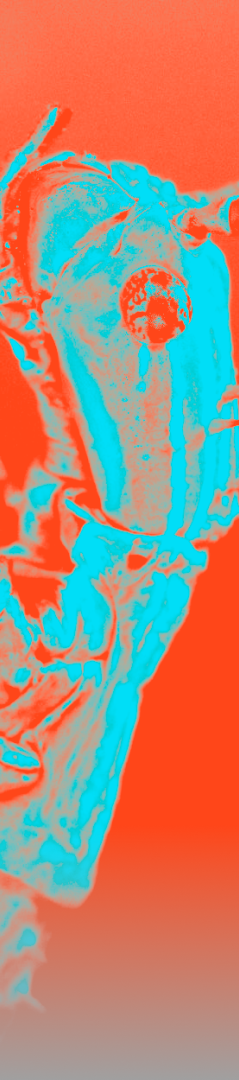
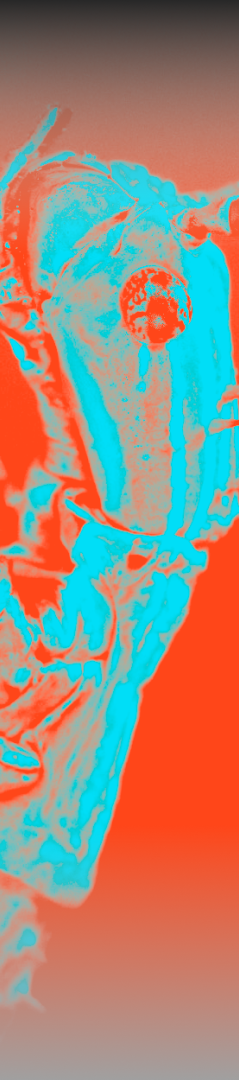
Добавлен подвал удалены неиспользуемые изображения

Changed region(s): [[0.0, 0.0, 1.0, 0.2139]]

diff --git a/footer.css b/footer.css
@@ -1,6 +1,38 @@
 footer {
     background-color: #262626;
-    color: #67CFDF;
+    height: 150px;
+
+    display: flex;
+    flex-direction: row;
+    flex-wrap: nowrap;
+
+    justify-content: space-between;
+    align-items: center;
+}
+
+footer > div {
+    margin: 0 150px;
+}
+
+/* ЛОГО С ПОДПИСЬЮ */
+.logo_footer {
+    display: inline-block;
+
+    height: 60px;
+    aspect-ratio: 383/87;
+
+    background-image: url(picture/logo_full.png);
+    background-size: contain;
+    background-repeat: no-repeat;
+}
+
+.logo_footer:hover {
+    background-image: url(picture/logo_full_color.png);
+}
+
+/* УЧЕБНОЕ ЗАВЕДЕНИЕ И СОЦИАЛЬНЫЕ СЕТИ */
+.vhutein_logo_and_social_icons_footer {
+    height: 30px;
 
     display: flex;
     flex-direction: row;
@@ -10,32 +42,57 @@ footer {
     align-items: center;
 }
 
-/* АВТОР И УЧЕБНОЕ ЗАВЕДЕНИЕ */
-.author {
-    font-size: 10pt;
-    margin-left: 25px;
+.vhutein_logo_and_social_icons_footer > div {
+    margin: 0 25px;
 }
 
-.establishment {
-    font-size: 28pt;
+/* УЧЕБНОЕ ЗАВЕДЕНИЕ */
+.vhutein_logo_footer {
+    display: inline-block;
+
+    height: 30px;
+    aspect-ratio: 827/164;
+    
+    background-image: url(picture/vhutein_logo_gray.png);
+    background-size: contain;
+    background-repeat: no-repeat;
 }
 
-/* ПАЛОЧНИК */
-.cool_rotated_stickyman_on_establishment {
-    position: relative;
+.vhutein_logo_footer:hover {
+    background-image: url(picture/vhutein_logo_color.png);
 }
 
-.cool_rotated_stickyman {
-    position: absolute;
-    top: 20%;
-    left: 20%;
+/* СОЦИАЛЬНЫЕ СЕТИ */
+.social_icons_foooter {
+     display: inline-block;
 
-    width: 60%;
-
-    transform-origin: center;
-    transition: transform 1s;
+    height: 30px;
+    aspect-ratio: 1;
+    
+    background-size: contain;
+    background-repeat: no-repeat;
 }
 
-.cool_rotated_stickyman:hover {
-	transform: rotate(1turn);
+.telegram_icon_footer {
+    background-image: url(picture/telegram_icon.png);
+}
+
+.telegram_icon_footer:hover {
+    background-image: url(picture/telegram_icon_color.png);
+}
+
+.youtube_icon_footer {
+    background-image: url(picture/youtube_icon.png);
+}
+
+.youtube_icon_footer:hover {
+    background-image: url(picture/youtube_icon_color.png);
+}
+
+.vk_icon_footer {
+    background-image: url(picture/vk_icon.png);
+}
+
+.vk_icon_footer:hover {
+    background-image: url(picture/vk_icon_color.png);
 }

diff --git a/structure.js b/structure.js
@@ -113,7 +113,7 @@ function is_state_4_third_screen() {
 }
 
 function set_state_1_third_screen() {
-    $('.third_screen').removeClass('white_screen protection_screen_2 protection_screen_3 protection_screen_4')
+    $('.third_screen').removeClass('white_screen')
     $('.third_screen').addClass('light_blue_screen')
     $('.little_white_circle').removeClass('little_white_circle_hide')
     $('.protection_info_1').addClass('protection_info_hide')
@@ -124,8 +124,8 @@ function set_state_1_third_screen() {
 }
 
 function set_state_2_third_screen() {
-    $('.third_screen').removeClass('light_blue_screen protection_screen_3 protection_screen_4')
-    $('.third_screen').addClass('white_screen protection_screen_2')
+    $('.third_screen').removeClass('light_blue_screen')
+    $('.third_screen').addClass('white_screen')
     $('.little_white_circle').addClass('little_white_circle_hide')
     $('.protection_info_1').removeClass('protection_info_hide')
     $('.protection_container_background').addClass('protection_container_background_2')
@@ -133,8 +133,8 @@ function set_state_2_third_screen() {
 }
 
 function set_state_3_third_screen() {
-    $('.third_screen').removeClass('light_blue_screen protection_screen_2 protection_screen_4')
-    $('.third_screen').addClass('white_screen protection_screen_3')
+    $('.third_screen').removeClass('light_blue_screen')
+    $('.third_screen').addClass('white_screen')
     $('.little_white_circle').addClass('little_white_circle_hide')
     $('.protection_info_2').removeClass('protection_info_hide')
     $('.protection_container_background').addClass('protection_container_background_3')
@@ -142,8 +142,8 @@ function set_state_3_third_screen() {
 }
 
 function set_state_4_third_screen() {
-    $('.third_screen').removeClass('light_blue_screen protection_screen_2 protection_screen_3')
-    $('.third_screen').addClass('white_screen protection_screen_4')
+    $('.third_screen').removeClass('light_blue_screen')
+    $('.third_screen').addClass('white_screen')
     $('.little_white_circle').addClass('little_white_circle_hide')
     $('.protection_info_3').removeClass('protection_info_hide')
     $('.protection_container_background').addClass('protection_container_background_4')

diff --git a/structure.html b/structure.html
@@ -111,11 +111,19 @@
 
     <!-- ПОДВАЛ -->
     <footer>
-        <div class="cool_rotated_stickyman_on_establishment">
-            <img src="picture/Sm_littlebig_gm_color.png" class="cool_rotated_stickyman">
-            <p class="establishment">ВХУТЕИН</p>
+        <div>
+            <a href="/" class="logo_footer"></a>
         </div>
-        <p class="author">Томина<br>Елизавета</p>
+        <div class="vhutein_logo_and_social_icons_footer">
+            <div>
+                <a href="https://www.vhutein.ru/" target="_blank" class="vhutein_logo_footer"></a>
+            </div>
+            <div>
+                <a href="https://t.me/vhutein" target="_blank" class="social_icons_foooter telegram_icon_footer"></a>
+                <a href="https://www.youtube.com/@vhutein" target="_blank" class="social_icons_foooter youtube_icon_footer"></a>
+                <a href="https://vk.com/vhutein" target="_blank" class="social_icons_foooter vk_icon_footer"></a>
+            </div>
+        </div>
     </footer>
     
     <!-- СТРЕЛОЧКА ВВЕРХ -->

diff --git a/metamorphosis.html b/metamorphosis.html
@@ -96,11 +96,19 @@
 
     <!-- ПОДВАЛ -->
     <footer>
-        <div class="cool_rotated_stickyman_on_establishment">
-            <img src="picture/Sm_littlebig_gm_color.png" class="cool_rotated_stickyman">
-            <p class="establishment">ВХУТЕИН</p>
+        <div>
+            <a href="/" class="logo_footer"></a>
         </div>
-        <p class="author">Томина<br>Елизавета</p>
+        <div class="vhutein_logo_and_social_icons_footer">
+            <div>
+                <a href="https://www.vhutein.ru/" target="_blank" class="vhutein_logo_footer"></a>
+            </div>
+            <div>
+                <a href="https://t.me/vhutein" target="_blank" class="social_icons_foooter telegram_icon_footer"></a>
+                <a href="https://www.youtube.com/@vhutein" target="_blank" class="social_icons_foooter youtube_icon_footer"></a>
+                <a href="https://vk.com/vhutein" target="_blank" class="social_icons_foooter vk_icon_footer"></a>
+            </div>
+        </div>
     </footer>
     
     <!-- СТРЕЛОЧКА ВВЕРХ -->

diff --git a/index.html b/index.html
@@ -132,11 +132,19 @@
 
     <!-- ПОДВАЛ -->
     <footer>
-        <div class="cool_rotated_stickyman_on_establishment">
-            <img src="picture/Sm_littlebig_gm_color.png" class="cool_rotated_stickyman">
-            <p class="establishment">ВХУТЕИН</p>
+        <div>
+            <a href="/" class="logo_footer"></a>
         </div>
-        <p class="author">Томина<br>Елизавета</p>
+        <div class="vhutein_logo_and_social_icons_footer">
+            <div>
+                <a href="https://www.vhutein.ru/" target="_blank" class="vhutein_logo_footer"></a>
+            </div>
+            <div>
+                <a href="https://t.me/vhutein" target="_blank" class="social_icons_foooter telegram_icon_footer"></a>
+                <a href="https://www.youtube.com/@vhutein" target="_blank" class="social_icons_foooter youtube_icon_footer"></a>
+                <a href="https://vk.com/vhutein" target="_blank" class="social_icons_foooter vk_icon_footer"></a>
+            </div>
+        </div>
     </footer>
 
     <!-- СТРЕЛОЧКА ВВЕРХ -->

diff --git a/structure.css b/structure.css
@@ -207,36 +207,6 @@
     transition: all 1s ease;
 }
 
-.protection_screen_2 {
-    background-image: url('picture/Ellipse_structure_1_screen.png');
-    background-repeat: no-repeat;
-    background-size: 60%;
-    background-position-x: calc(50% - 200px);
-    background-position-y: calc(50% - 70px);
-
-    transition: all 2s ease;
-}
-
-.protection_screen_3 {
-    background-image: url('picture/Ellipse_structure_2_screen.png');
-    background-repeat: no-repeat;
-    background-size: 60%;
-    background-position-x: calc(50% - 100px);
-    background-position-y: calc(50% + 25px);
-
-    transition: all 2s ease;
-}
-
-.protection_screen_4 {
-    background-image: url('picture/Ellipse_structure_3_screen.png');
-    background-repeat: no-repeat;
-    background-size: 60%;
-    background-position-x: calc(50% - 150px);
-    background-position-y: calc(50% - 113px);
-
-    transition: all 2s ease;
-}
-
 .protection_container_background {
     height: 100%;
     width: 100%;

diff --git a/index.css b/index.css
@@ -23,11 +23,6 @@
 
 /* ВТОРОЙ ЭКРАН */
 .second_screen {
-    background-image: url('picture/Gradient_top.png');
-    background-position: 50% 0%;
-    background-repeat: no-repeat;
-    background-size: contain;
-
     display: flex;
     flex-direction: row;
     flex-wrap: nowrap;
